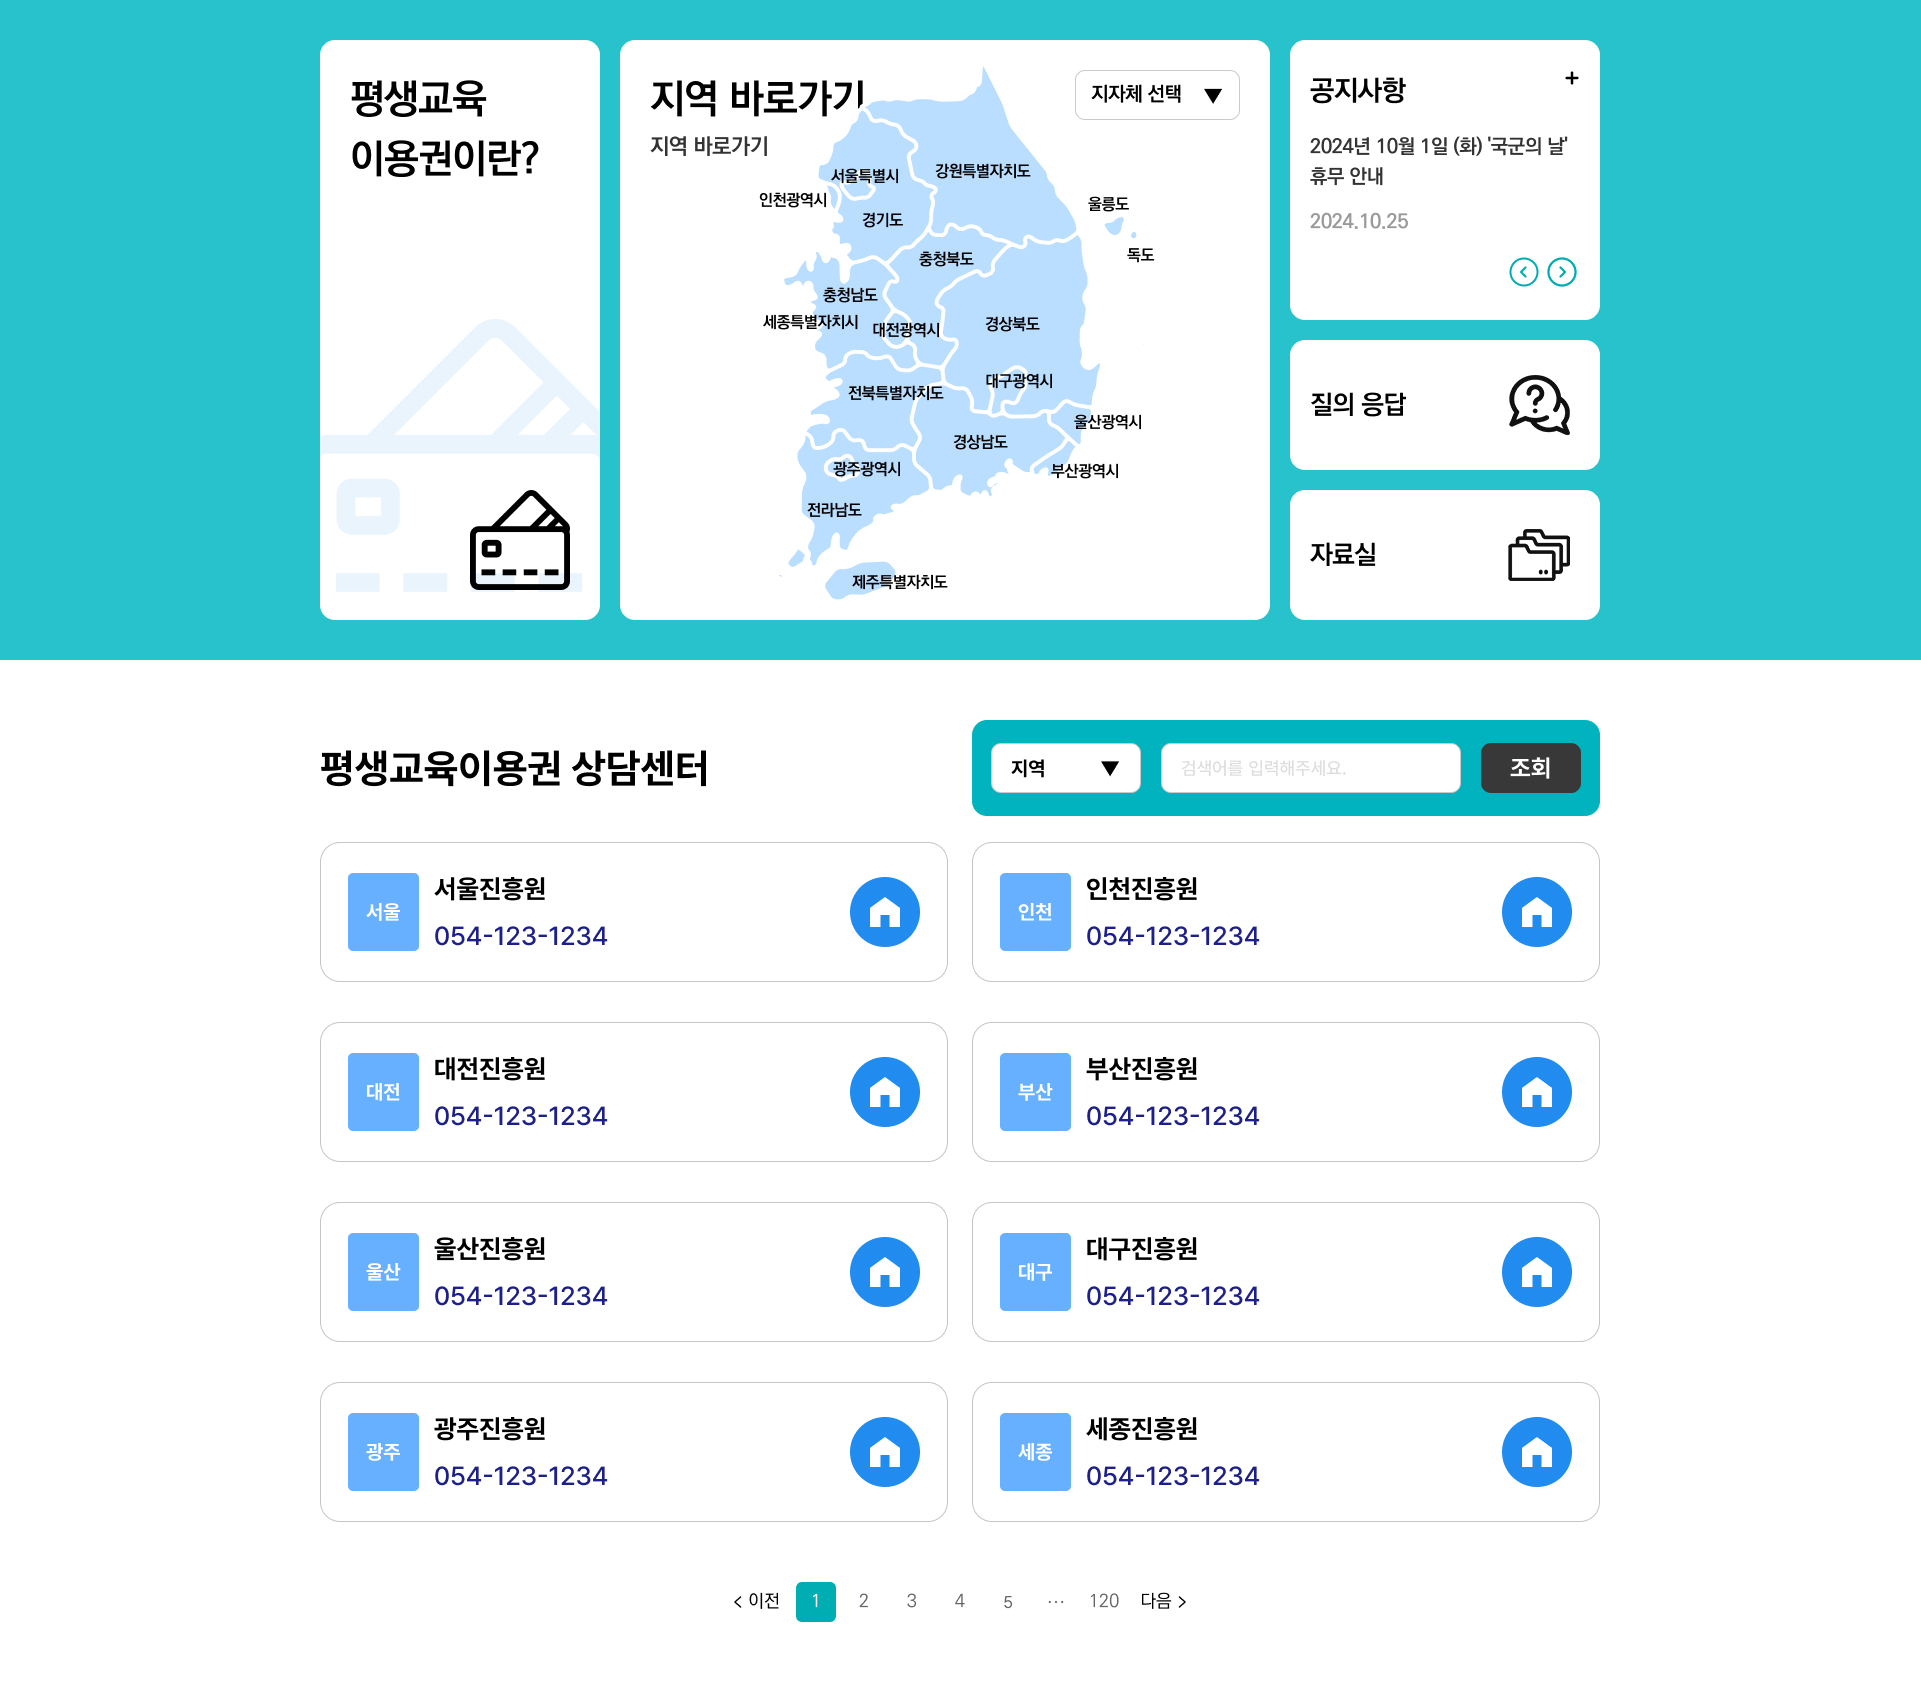
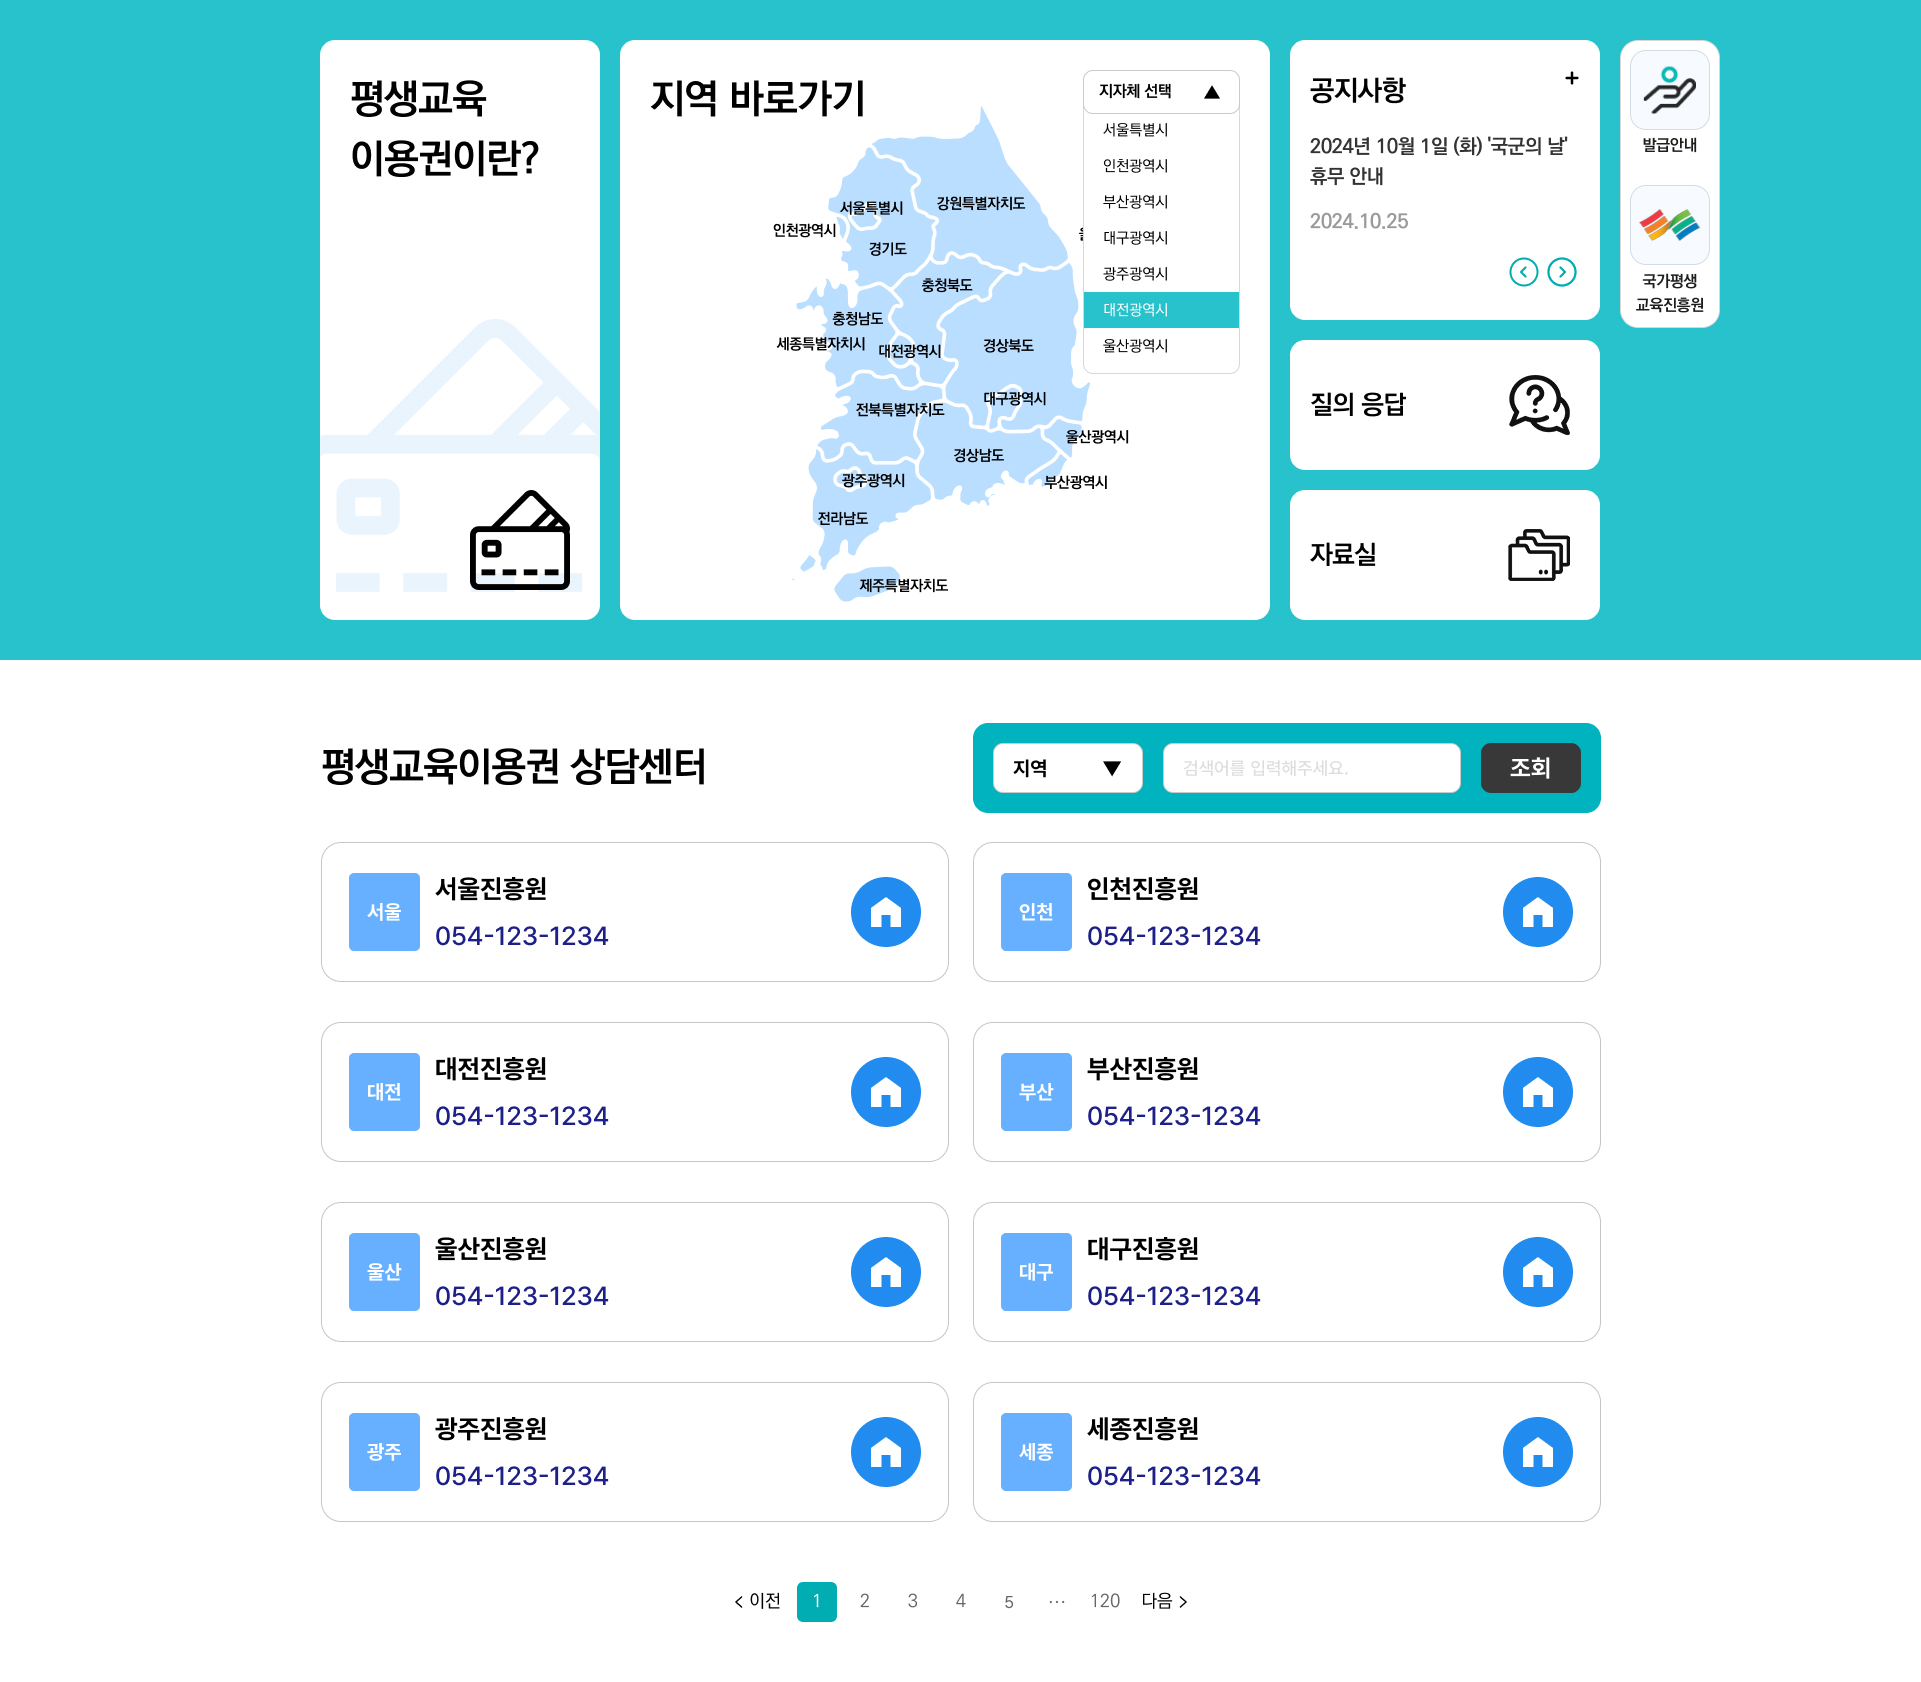
pmp main, select 변경

diff --git a/css/biz2/layout.css b/css/biz2/layout.css
@@ -97,15 +97,8 @@ footer .info-content .link-area .support-box { display: flex; column-gap: 22px; 
 
 /* PC용 footer 관련 사이트 셀렉트 (* 접두어 lg) */
 footer .info-content .family-select-wrap {position: absolute; right: 0; top: 118px; z-index: 1;}
-footer .info-content .family-select-lg {color: var(--text-primary-00); }
-footer .info-content .family-select-lg  > button {font-weight: 700; width: 240px; height: 50px; padding: 0 20px; border: 1px solid #c5c5c5;  background: #fff url(../../images/biz2/ic_arrow_big.png) no-repeat right 20px center; border-radius: 10px;}
-footer .info-content .family-select-lg > button {font-size: 20px;}
-footer .info-content .family-select-lg .family-site-list {font-size: 18px; border-radius: 10px; padding-top: 20px; padding-bottom: 20px; height: 432px; overflow-y: auto;}
-footer .info-content .family-select-lg .family-site-list::-webkit-scrollbar {width: 4px;}
-footer .info-content .family-select-lg .family-site-list::-webkit-scrollbar-thumb {background: #d9d9d9; border-radius: 10px;}
-footer .info-content .family-select-lg .family-site-list > li > a {padding: 0 20px; line-height: 48px; font-size: 15px; font-weight: 700;}
-footer .info-content .family-select-lg .family-site-list > li > a:hover {background: var(--primary-color); color: var(--white);}
-
+footer .info-content .family-select-lg  > button {width: 240px;}
+footer .info-content .family-select-lg .family-site-list {height: 282px;}
 
 /* PC용 footer 관련 사이트 셀렉트 (* 접두어 sm) */
 footer .family-select-sm {display: none;}
@@ -113,4 +106,3 @@ footer .family-select-sm {width: 100vw; margin-left: calc(-50vw + 50%); padding:
 footer .family-select-sm > button {height: 56px; font-size: 20px; font-weight: 700;}
 footer .family-select-sm > button::after {content : ''; display: inline-block; vertical-align: middle; width: 20px; height: 20px; border: 1px solid blue;}
 footer .family-select-sm .family-site-list {padding: 0 20px; padding-top: 12px; padding-bottom: 12px;}
-footer .info-content .family-select-lg > button.is-open {background: #fff url(../../images/biz2/ic_arrow_big_top.png) no-repeat right 20px center;}

diff --git a/css/biz2/style.css b/css/biz2/style.css
@@ -119,11 +119,17 @@ table td{color:var(--text-sub-33)}
 .com-paging button.next::after{content:"";display:inline-block;width:20px;height:20px;vertical-align:middle;background:url(../../images/biz2/ico/paging_arrow.svg) no-repeat center;transform:rotate(180deg);margin-top:-2px; }
 
 /* custom select 공통 */
-.custom-select-list {display: none}
-.custom-select-open {display: flex; align-items: center; justify-content: space-between; width: 100%}
+.custom-select-box {color: var(--text-primary-00);}
+.custom-select-list {display: none; border-radius: 10px; padding-top: 10px; padding-bottom: 10px; overflow-y: auto;}
+.custom-select-list > li > a {display: block; line-height: 36px; font-size: 15px; font-weight: 500; padding: 0 16px;}
+.custom-select-list > li > a:hover {background: var(--primary-color); color: var(--white);}
+button.custom-select-open {display: flex; align-items: center; justify-content: space-between; padding: 0 16px; width: 100%; font-weight: 700; height: 44px; font-size: 16px; border: 1px solid var(--gray-30-d8);  background: #fff url(../../images/biz2/ic_arrow_big.png) no-repeat right 16px center; border-radius: 10px;}
+button.custom-select-open.is-open {background: #fff url(../../images/biz2/ic_arrow_big_top.png) no-repeat right 16px center;}
+/* custom select 오픈 스타일 */
 .custom-select-box.is-open {position: relative}
 .custom-select-box.is-open .custom-select-list {display: block; position: absolute; z-index: -1; width: 100%; left: 0; bottom: calc(100% - 11.5px); background: #fff; border: 1px solid #c5c5c5}
-.custom-select-list > li > a {display: block}
+.custom-select-box.is-open .custom-select-list::-webkit-scrollbar {width: 12px; height: 70px;}
+.custom-select-box.is-open .custom-select-list::-webkit-scrollbar-thumb {background: #e4e4e4; border: 3px solid transparent; background-clip: padding-box; border-radius: 6px;}
 
 /* sub */
 /* IIP_001 사용기관 공지사항 */

diff --git a/css/biz2/mo.css b/css/biz2/mo.css
@@ -19,6 +19,7 @@
 	.fixed-quick{right:-50px}
 	.main-cont {justify-content: flex-start; gap: 20px;}
 	.main-info-right {width: 260px;}
+	.more-link-area > a {font-size: 23px;}
 }
 
 @media only screen and (max-width:1440px){
@@ -41,6 +42,7 @@
 	.main-counseling-card{padding:16px}
 	.main-counseling-detail > h5{font-size:20px}
 	.main-counseling-detail > .main-counseling-num{font-size:20px}
+	.more-link-area > a {font-size: 23px;}
 }
 
 @media only screen and (max-width:1080px){
@@ -156,10 +158,7 @@
 	footer .info-content address > span{font-size:16px}
 	footer .info-content .link-area .link-box{flex-wrap:wrap;row-gap:12px;column-gap:24px}
 	footer .info-content .family-select-wrap{position:static;margin-bottom:20px}
-	footer .info-content .family-select-lg > button{width:100%;font-size:18px;height:40px;padding:0 8px;background:#fff url(../../images/biz2/ic_arrow_big.png) no-repeat right 8px center}
-	footer .info-content .family-select-lg > button.is-open{background:#fff url(../../images/biz2/ic_arrow_big_top.png) no-repeat right 8px center}
-	footer .info-content .family-select-lg .family-site-list > li > a{font-size:16px;line-height:56px}
-	footer .info-content .footer-logo{width:90px;height:24px;background-size:cover}
+	footer .info-content .family-select-lg > button{width:100%;}
 
 	/* 페이지네이션 공통 */
 	.com-paging{gap:6.4px;padding:0 9.2px}

diff --git a/work/PMP_001.html b/work/PMP_001.html
@@ -9,6 +9,7 @@
     <link rel="stylesheet" href="../css/biz2/layout.css">
     <link rel="stylesheet" href="../css/biz2/main.css">
     <link rel="stylesheet" href="../css/biz2/style.css">
+    <link rel="stylesheet" href="../css/biz2/mo.css">
     <link rel="stylesheet" href="../css/biz2/swiper-bundle.min.css">
     <script src="../js/biz2/jquery.1.8.2.min.js"></script>
     <script src="../js/biz2/swiper-bundle.min.js"></script>
